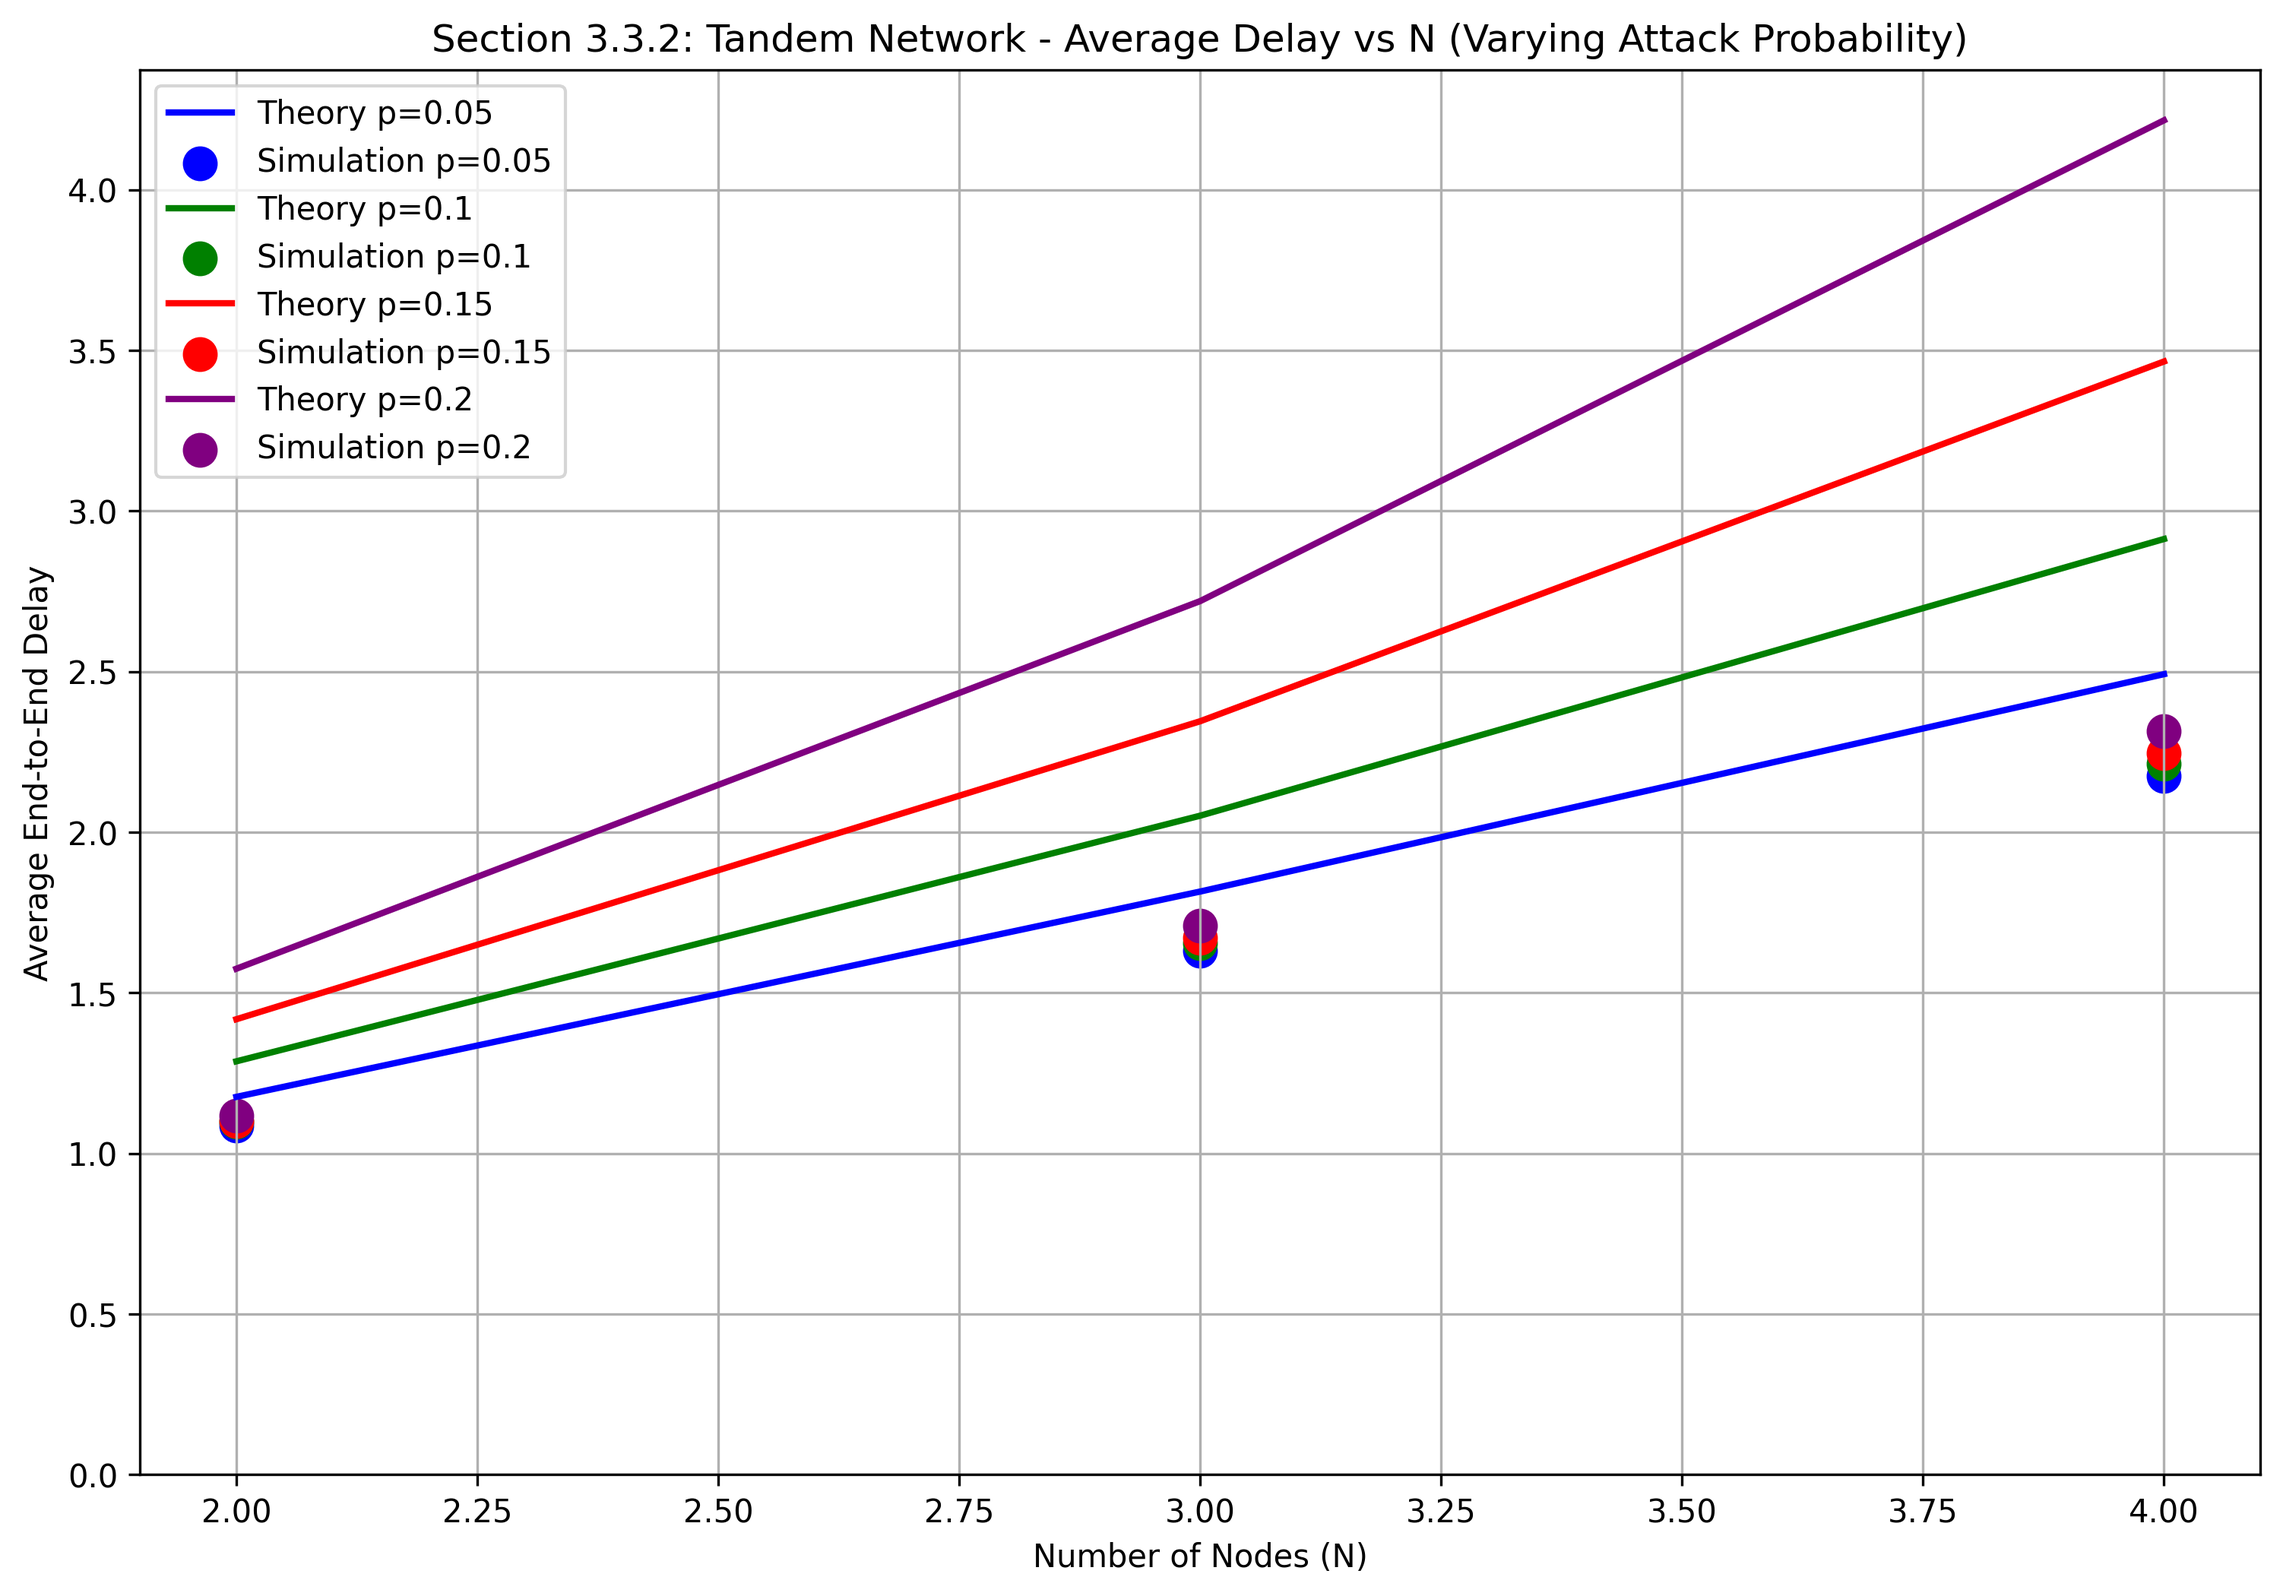
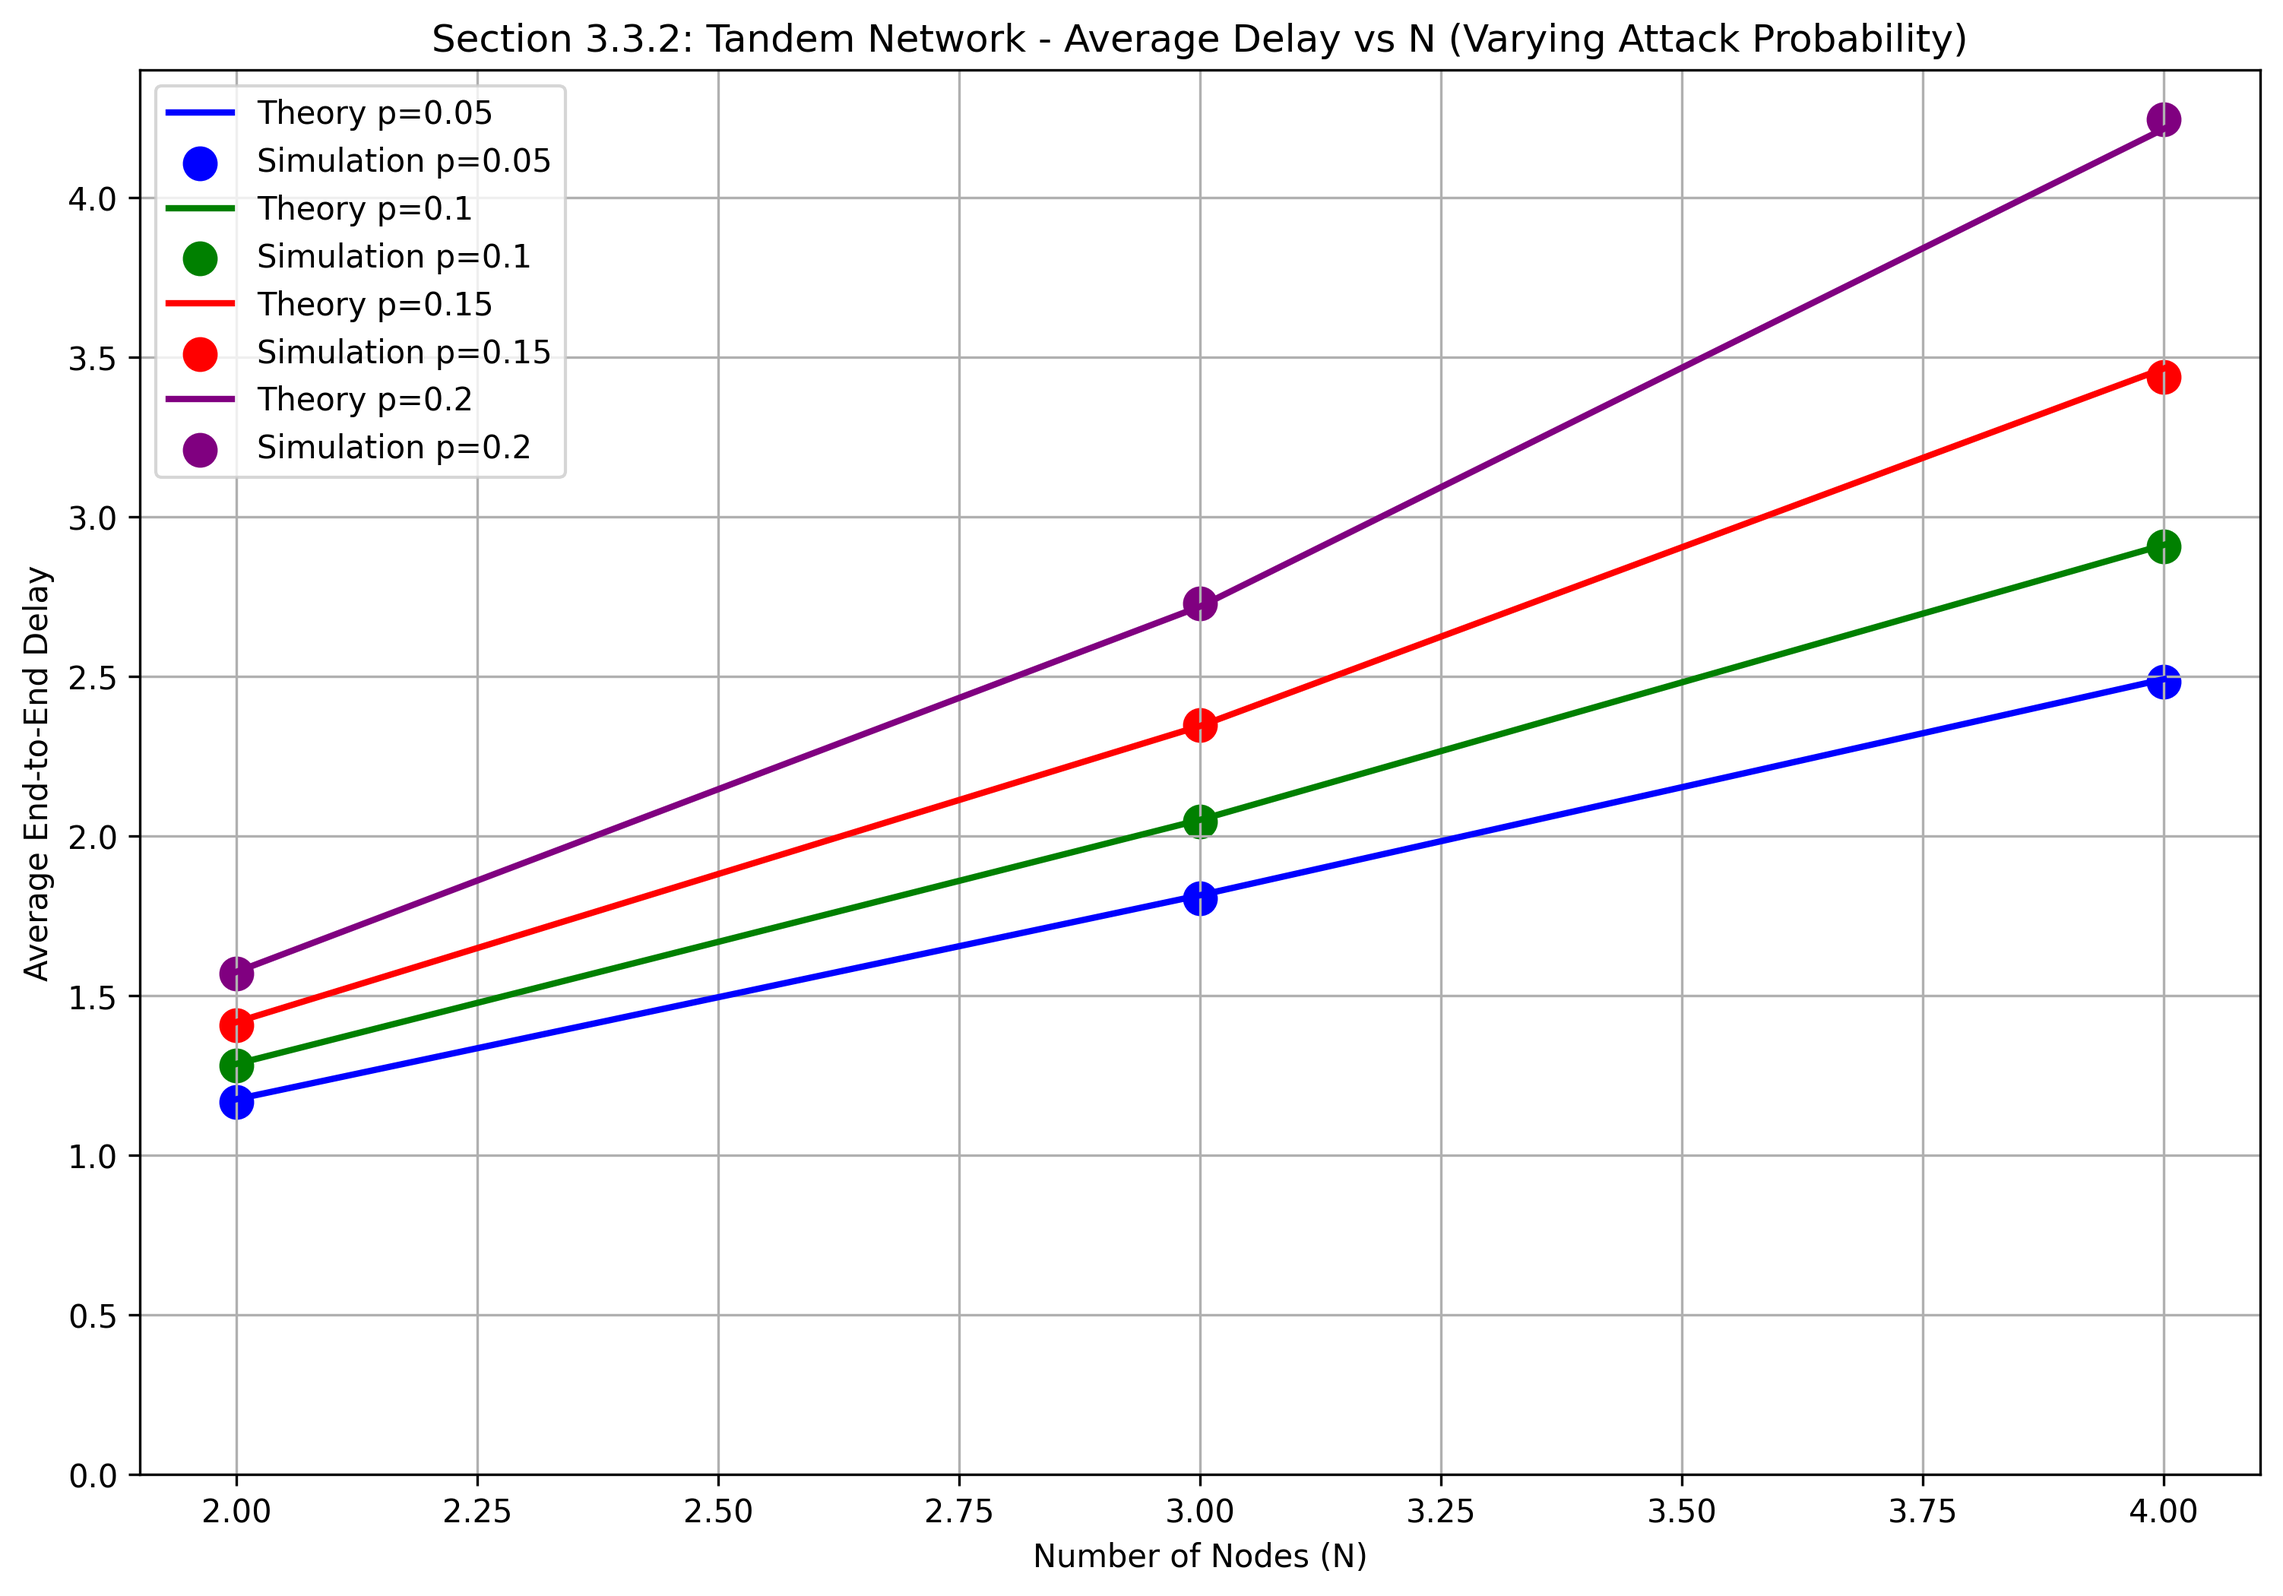
refactor: implement attempt-based timeouts and export simulation metrics to JSON files

diff --git a/n_node_feedforward.py b/n_node_feedforward.py
@@ -1,5 +1,6 @@
 import numpy as np
 import matplotlib.pyplot as plt
+import json
 import simpy
 import random
 from scipy.optimize import fsolve
@@ -166,6 +167,7 @@ class TandemPacket:
     def __init__(self, packet_id, arrival_time):
         self.packet_id = packet_id
         self.original_arrival_time = arrival_time
+        self.attempt_start_time = arrival_time  # New field for timeout checks
         self.current_node = 0
         self.path_history = [0]
 
@@ -206,27 +208,27 @@ def create_tandem_network_simulation(N, mu, lambda_arr, p, W):
                     # Service time
                     yield env.timeout(random.expovariate(mu))
                     
-                    # After service, check for attack (corruption detection)
                     if random.random() < p:
                         # Packet corrupted - retransmit from first node
                         new_packet = TandemPacket(packet.packet_id + f"_retx_n{node_id}", env.now)
-                        # RESET arrival time for the new attempt
-                        new_packet.original_arrival_time = env.now 
+                        new_packet.original_arrival_time = packet.original_arrival_time
+                        new_packet.attempt_start_time = env.now # Timer resets for timeout
                         queues[0].put(new_packet)
                         continue
                     
                     # Check timeout (only at the last node for end-to-end delay)
                     if node_id == N - 1:
-                        total_time = env.now - packet.original_arrival_time
-                        if total_time > W:
+                        # Timeout check uses attempt_start_time
+                        if (env.now - packet.attempt_start_time) > W:
                             # Timeout - retransmit from first node
                             new_packet = TandemPacket(packet.packet_id + f"_timeout", env.now)
-                            # RESET arrival time for the new attempt
-                            new_packet.original_arrival_time = env.now
+                            new_packet.original_arrival_time = packet.original_arrival_time
+                            new_packet.attempt_start_time = env.now # Timer resets
                             queues[0].put(new_packet)
                             continue
                         
                         # Success - packet exits the system
+                        total_time = env.now - packet.original_arrival_time
                         packet_delays.append(total_time)
                     else:
                         # Forward to next node
@@ -267,11 +269,23 @@ def run_multiple_simulations(N, mu, lambda_arr, p, W, replications):
 
 # --- EXECUTION AND PLOTTING ---
 
+    plt.grid(True)
+    plt.ylim(bottom=0)  # Ensure positive y-axis
+    plt.savefig('section_3_3_2_tandem_delay_vs_N_varying_p.png', dpi=300, bbox_inches='tight')
+    # plt.show() # Disabled as per user request
+    
+    return {
+        "p_values": p_values,
+        "N_values": list(N_values),
+        "results": all_results
+    }
+
 def plot_sojourn_time_vs_N_varying_p():
     """Generate Figure for Section 3.3.2: Average Sojourn time vs N, varying attack probability."""
     
     plt.figure(figsize=(12, 8))
     colors = ['b', 'g', 'r', 'purple']
+    all_results = []
     
     for idx, p in enumerate(p_values):
         theory_times = []
@@ -285,6 +299,7 @@ def plot_sojourn_time_vs_N_varying_p():
                 print(f"  Skipping unstable case N={N}, p={p}")
                 theory_times.append(np.inf)
                 sim_times.append(np.inf)
+                all_results.append({"N": N, "p": p, "theory": "inf", "sim": "inf"})
                 continue
             
             # Theoretical calculation
@@ -298,7 +313,14 @@ def plot_sojourn_time_vs_N_varying_p():
             else:
                 sim_times.append(np.inf)
             
-            print(f"  Result: Theory={theory_times[-1]:.4f}, Sim={sim_times[-1]:.4f}, Gap={abs(theory_times[-1]-sim_times[-1]):.4f}")
+            all_results.append({
+                "N": int(N), 
+                "p": float(p), 
+                "theory": float(theory_times[-1]) if theory_times[-1] != np.inf else "inf", 
+                "sim": float(sim_times[-1]) if sim_times[-1] != np.inf else "inf"
+            })
+            
+            print(f"  Result: Theory={theory_times[-1]:.4f}, Sim={sim_times[-1]:.4f}, Gap={abs(theory_times[-1]-sim_times[-1]) if theory_times[-1] != np.inf and sim_times[-1] != np.inf else 0:.4f}")
         
         # Plot results (filter out infinite values for cleaner plots)
         valid_theory = [t if t != np.inf else None for t in theory_times]
@@ -316,7 +338,8 @@ def plot_sojourn_time_vs_N_varying_p():
     plt.grid(True)
     plt.ylim(bottom=0)  # Ensure positive y-axis
     plt.savefig('section_3_3_2_tandem_delay_vs_N_varying_p.png', dpi=300, bbox_inches='tight')
-    plt.show()
+    # plt.show()
+    return all_results
 
 def plot_sojourn_time_vs_N_varying_lambda():
     """Generate Figure for Section 3.3.2: Average Sojourn time vs N, varying arrival rate."""
@@ -461,7 +484,10 @@ if __name__ == "__main__":
         debug_stability(*case)
     
     print("\nGenerating Average Delay vs N (Varying Attack Probability)...")
-    plot_sojourn_time_vs_N_varying_p()
+    results = plot_sojourn_time_vs_N_varying_p()
+    
+    with open('results_feedforward.json', 'w') as f:
+        json.dump(results, f, indent=4)
     
     # plot_sojourn_time_vs_N_varying_lambda()
     
@@ -469,7 +495,7 @@ if __name__ == "__main__":
     
     # plot_stability_regions()
     
-    print("\nInitial plot generated!")
+    print("\nInitial results saved to results_feedforward.json!")
     
     # Example: Show detailed results for a specific case
     print(f"\nExample detailed results for N=3, μ={mu}, λ={lambda_arrival}, p={p_values[1]}, W={W}:")

diff --git a/n_node_with_feedback.py b/n_node_with_feedback.py
@@ -1,15 +1,16 @@
 import numpy as np
 import matplotlib.pyplot as plt
+import json
 import simpy
 import random
 from scipy.optimize import fsolve
 
 # --- MODEL PARAMETERS FOR SECTION 3.3.1 ---
-mu = 2.0  # Increased from 1.0
-lambda_arrival = 0.1  # Reduced from 0.2
-W = 1000.0  # Very large to avoid timeouts
-N_values = range(2, 6)  # Reduced range for faster testing
-p_values = [0.05, 0.1, 0.15, 0.2]  # Reduced probabilities
+mu = 1.0  # Service rate (identical for all nodes)
+lambda_arrival = 0.1  # Reduced arrival rate for stability
+W = 20.0  # Increased timeout period
+N_values = range(2, 6)  # Number of nodes to test
+p_values = [0.05, 0.1, 0.15, 0.2]  # Attack probabilities
 lambda_values = [0.1, 0.2, 0.3, 0.4]  # Arrival rates to test
 
 # Simulation parameters
@@ -156,6 +157,7 @@ class NetworkPacket:
         self.packet_id = packet_id
         self.entry_node = entry_node
         self.original_arrival_time = arrival_time
+        self.attempt_start_time = arrival_time  # New field for timeout checks
         self.current_node = entry_node
         self.path_history = [entry_node]
 
@@ -190,12 +192,11 @@ def create_feedback_network_simulation(N, mu, lambda_arr, p, W):
             while True:
                 packet = yield queue.get()
                 
-                # Check for attack at this node
                 if random.random() < p:
                     # Packet lost due to attack - retransmit from entry node
                     new_packet = NetworkPacket(packet.packet_id + "_retx", packet.entry_node, env.now)
-                    # RESET arrival time for new attempt
-                    new_packet.original_arrival_time = env.now
+                    new_packet.original_arrival_time = packet.original_arrival_time
+                    new_packet.attempt_start_time = env.now # Timer resets for new attempt
                     queues[packet.entry_node].put(new_packet)
                     continue
                 
@@ -206,12 +207,12 @@ def create_feedback_network_simulation(N, mu, lambda_arr, p, W):
                     yield env.timeout(random.expovariate(mu))
                     
                     # Check timeout
-                    total_time = env.now - packet.original_arrival_time
-                    if total_time > W:
+                    # Check timeout uses attempt_start_time
+                    if (env.now - packet.attempt_start_time) > W:
                         # Timeout - retransmit from entry node
                         new_packet = NetworkPacket(packet.packet_id + "_timeout", packet.entry_node, env.now)
-                        # RESET arrival time for new attempt
-                        new_packet.original_arrival_time = env.now
+                        new_packet.original_arrival_time = packet.original_arrival_time
+                        new_packet.attempt_start_time = env.now # Timer resets
                         queues[packet.entry_node].put(new_packet)
                         continue
                     
@@ -279,11 +280,17 @@ def run_multiple_simulations(N, mu, lambda_arr, p, W, replications):
 
 # --- EXECUTION AND PLOTTING ---
 
+    plt.grid(True)
+    plt.savefig('section_3_3_1_sojourn_vs_N_varying_p.png')
+    # plt.show()
+    return all_results
+
 def plot_sojourn_time_vs_N_varying_p():
     """Reproduce Figure 3.9: Average Sojourn time vs N, varying attack probability."""
     
     plt.figure(figsize=(12, 8))
     colors = ['b', 'g', 'r', 'purple']
+    all_results = []
     
     for idx, p in enumerate(p_values):
         theory_times = []
@@ -303,7 +310,14 @@ def plot_sojourn_time_vs_N_varying_p():
             else:
                 sim_times.append(np.inf)
             
-            print(f"  Result: Theory={theory_times[-1]:.4f}, Sim={sim_times[-1]:.4f}, Gap={abs(theory_times[-1]-sim_times[-1]):.4f}")
+            all_results.append({
+                "N": int(N),
+                "p": float(p),
+                "theory": float(theory_times[-1]) if theory_times[-1] != np.inf else "inf",
+                "sim": float(sim_times[-1]) if sim_times[-1] != np.inf else "inf"
+            })
+            
+            print(f"  Result: Theory={theory_times[-1]:.4f}, Sim={sim_times[-1]:.4f}, Gap={abs(theory_times[-1]-sim_times[-1]) if theory_times[-1] != np.inf and sim_times[-1] != np.inf else 0:.4f}")
         
         # Plot results
         plt.plot(N_values, theory_times, color=colors[idx], linestyle='-', 
@@ -317,7 +331,8 @@ def plot_sojourn_time_vs_N_varying_p():
     plt.legend()
     plt.grid(True)
     plt.savefig('section_3_3_1_sojourn_vs_N_varying_p.png')
-    plt.show()
+    # plt.show()
+    return all_results
 
 def plot_sojourn_time_vs_N_varying_lambda():
     """Reproduce Figure 3.10: Average Sojourn time vs N, varying arrival rate."""
@@ -411,13 +426,16 @@ if __name__ == "__main__":
     print("="*60)
     
     print("\nGenerating Figure 3.9: Average Sojourn Time vs N (Varying Attack Probability)...")
-    plot_sojourn_time_vs_N_varying_p()
+    results = plot_sojourn_time_vs_N_varying_p()
+    
+    with open('results_feedback.json', 'w') as f:
+        json.dump(results, f, indent=4)
     
     # plot_sojourn_time_vs_N_varying_lambda()
     
     # plot_traffic_rate_analysis()
     
-    print("\nInitial plot generated!")
+    print("\nInitial results saved to results_feedback.json!")
     
     # Example: Show detailed results for a specific case
     print(f"\nExample detailed results for N=5, μ={mu}, λ={lambda_arrival}, p={p_values[1]}, W={W}:")
